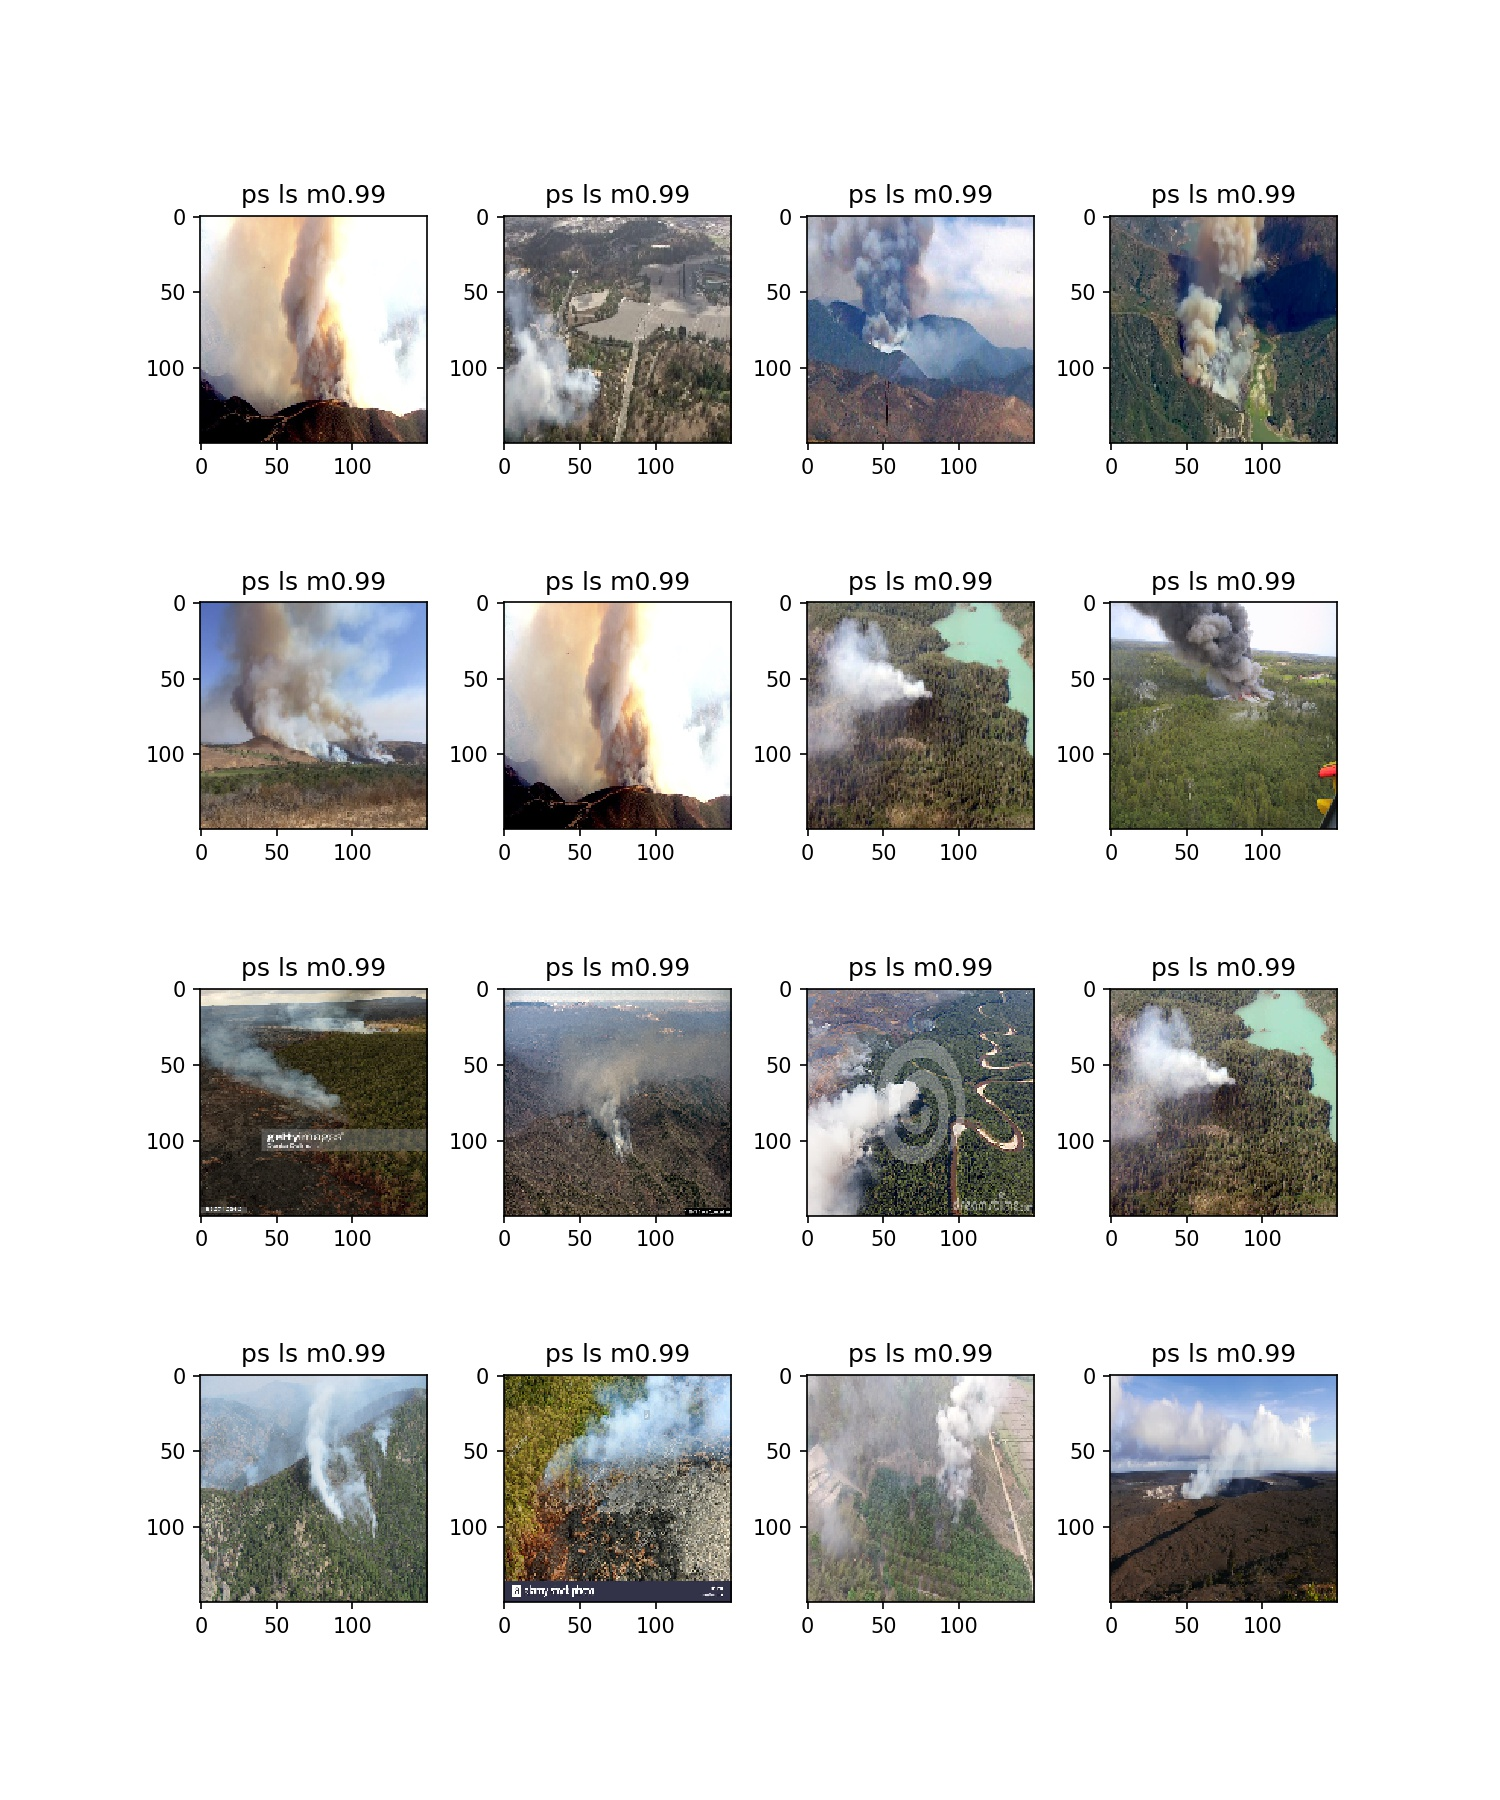
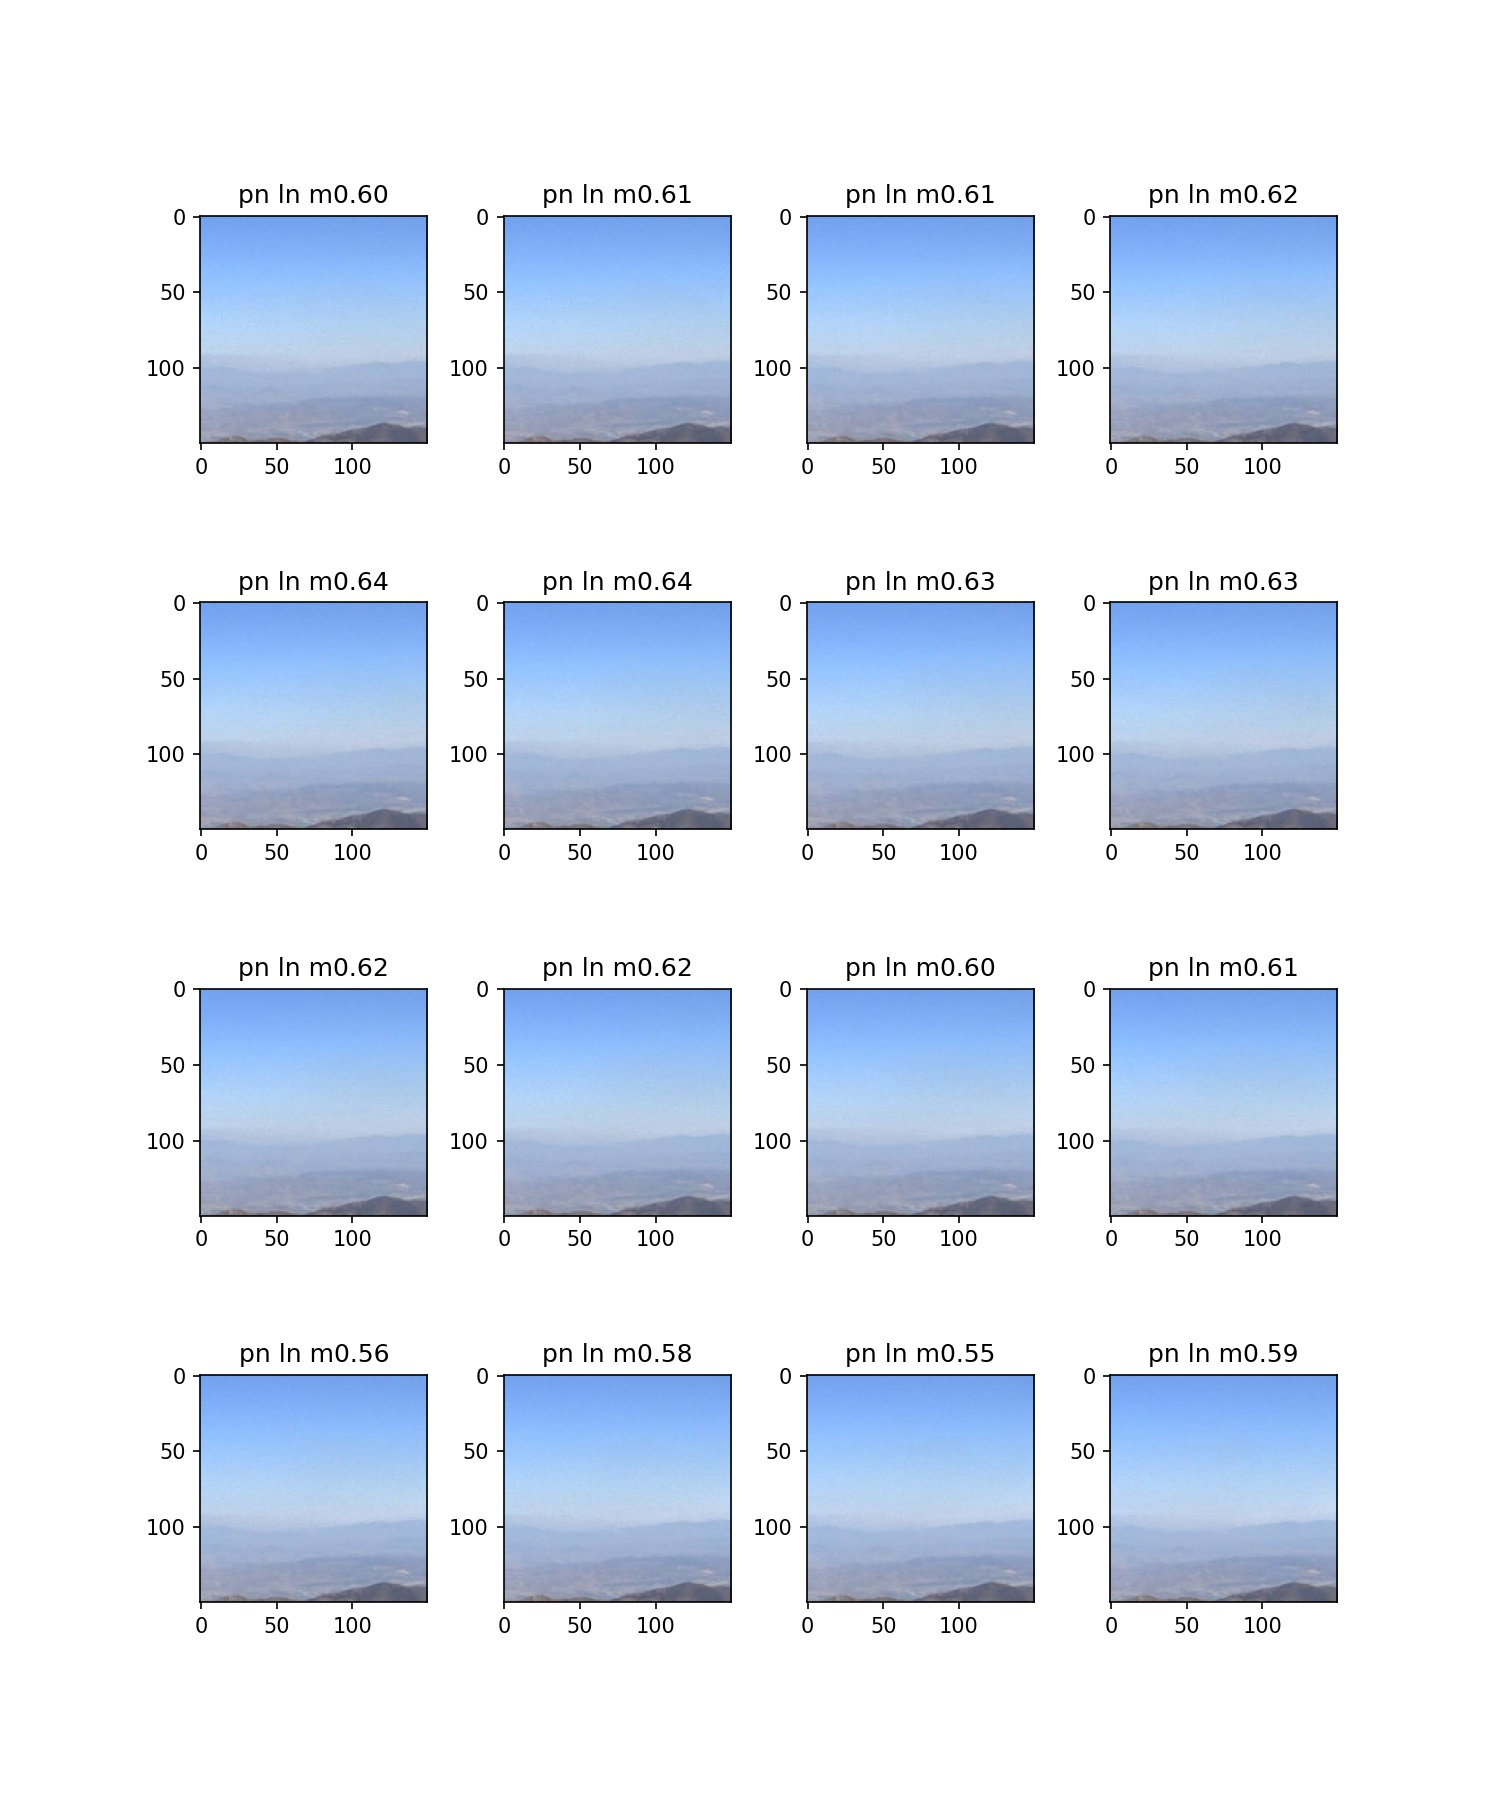
Testing use of camera video.

diff --git a/fire_network.py b/fire_network.py
@@ -42,25 +42,37 @@ from keras import backend as K
 
 # Training parameters:
 detection_threshold = .90
-num_training_images = 500
-num_validation_images = 50
+# num_training_images = 500
+num_training_images = 20
+
+# num_validation_images = 50
+num_validation_images = 30
+
+# num_test_images = 40
 num_test_images = 40
+
 model_fit_batch_size = 100
-num_epochs = 80
+
+# TODO-JYW: Another command line option needed here, as in all of the above.
+# num_epochs = 80
+num_epochs = 1000
+
 x_image_pixels = 160
 y_image_pixels = 160
+
+# TODO-JYW: Add command-line option to switch networks.
 
 # For VGG16:
 # Note: Must also change the size of the features vector in extract_features()
 # 150 x 150 = 4 * 4 * 512
 # 160 x 160 = 5 * 5 * 512
 # 512 x 512 = 16 * 16 * 512
-# length_of_flattened_data = 5 * 5 * 512
+length_of_flattened_data = 5 * 5 * 512
 
 # For MobileNet:
 # Note: Must also change the size of the features vector in extract_features()
 # 160 x 160 = 5 * 5 * 1024
-length_of_flattened_data = 5 * 5 * 1024
+# length_of_flattened_data = 5 * 5 * 1024
 
 # TODO-JYW: Add the CLI options referenced below
 # TODO-JYW: Add code to check for the existence of directories mentioned below.
@@ -70,7 +82,11 @@ checkpoint_directory = "./checkpoint/"
 tflite_directory = "./tflite/"
 save_network_file = "fire_network.h5"
 tensorboard_log_directory = "tensorboard"
-early_stopping_improvement_epochs = 10
+
+# TODO-JYW: 
+# early_stopping_improvement_epochs = 10
+early_stopping_improvement_epochs = 100
+
 base_training_directory = '../screenshots'
 
 def create_network(base_network, class_network):
@@ -167,7 +183,10 @@ def test_network(network, directory, sample_count):
 
 def extract_features(network, directory, sample_count):
     # TODO-JYW: Represent the following shape in the training parameters section
-    features = np.zeros(shape=(sample_count, 5, 5, 1024))
+# TODO-JYW: Used for MobileNet:    
+#    features = np.zeros(shape=(sample_count, 5, 5, 1024))
+# TODO-JYW: Used for VGG16
+    features = np.zeros(shape=(sample_count, 5, 5, 512))
     labels = np.zeros(shape=(sample_count))
     batch_size = 10
 
@@ -227,7 +246,9 @@ def print_help():
 def display_image_predictions(predictions, membership, label_names, file_names):
     columns = 4
     rows = 4
-    pages = 4
+# TODO-JYW: Add pages as a command-line option.    
+#    pages = 4
+    pages = 12
 
     is_more_images = len(file_names) > 0
     error_count = 0
@@ -296,12 +317,12 @@ def main():
         print("Moved " + str(num_validation_images) + " images to " + validation_dir)
 
     # Load the pretrained network, except the top (last) layer used for classification.
-    #network = VGG16(weights='imagenet',
-    #        include_top=False,
-    #        input_shape=(x_image_pixels, y_image_pixels, 3))
-    network = MobileNet(weights='imagenet',
+    network = VGG16(weights='imagenet',
             include_top=False,
             input_shape=(x_image_pixels, y_image_pixels, 3))
+    #network = MobileNet(weights='imagenet',
+    #        include_top=False,
+    #        input_shape=(x_image_pixels, y_image_pixels, 3))
 
     # Generate feature vectors for each of the images using the pretrained network.
     validation_features, validation_labels, data_generator = extract_features(network, validation_dir, num_validation_images)
@@ -341,19 +362,22 @@ def main():
 
     # Add the model trained above to the base network so that it can be saved as a single network.
     joined_network = create_network(network, model)
-    joined_network.compile(optimizer=optimizers.RMSprop(lr=2e-5),
-              loss='binary_crossentropy',
-              metrics=['acc'])
+#    joined_network.compile(optimizer=optimizers.RMSprop(lr=2e-5),
+#              loss='binary_crossentropy',
+#              metrics=['acc'])
 
     # Display the names in the joined network:
     joined_network.summary()
 
     # Apply the pretrained base network and the densely connected classifier to
     # the images in the test directory.
-    predicted_label_names, predicted_label_percent, actual_label_names, file_names = test_network(joined_network, test_dir, 40)
+    # TODO-JYW: Make the number of images displayed a parameter.
+#    predicted_label_names, predicted_label_percent, actual_label_names, file_names = test_network(joined_network, test_dir, 40)
+    predicted_label_names, predicted_label_percent, actual_label_names, file_names = test_network(joined_network, test_dir, 200)
 
     # Save the last network processed by Keras to a file for later deployment.
-    freeze.save_to_tflite(joined_network, tflite_directory, save_network_file, data_generator, True)
+    # TODO-JYW: Provide a command line option to save to a non-quantized format. Use save_to_pb?    
+    # freeze.save_to_tflite(joined_network, tflite_directory, save_network_file, data_generator, True)
 
     # Now display the predictions and the associated images in the test data.
     display_image_predictions(predicted_label_names, predicted_label_percent, actual_label_names, file_names)

diff --git a/gpu_test.py b/gpu_test.py
@@ -1,3 +1,7 @@
 import tensorflow as tf
-tf.enable_eager_execution()
-print(tf.reduce_sum(tf.random_normal([1000, 1000])))
+
+# tf.enable_eager_execution()
+# print(tf.reduce_sum(tf.random_normal([1000, 1000])))
+
+# Newer version of the above function.
+print(tf.config.list_physical_devices('GPU'))
